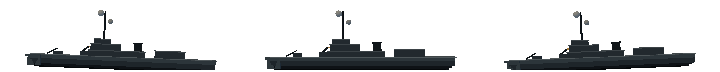
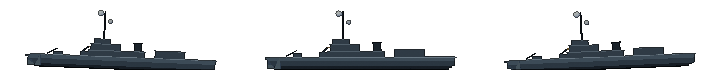
upgrade buques

diff --git a/src/data/cajas_three.js b/src/data/cajas_three.js
@@ -3,7 +3,12 @@
 // tools/bake_enemies_run.js (el horno viejo, que desde la fase 2 escribe esas hojas en
 // assets/world/enemies/three/). El juego las usa con `?horno=three` (data/horno.js).
 export const CAJAS_THREE = {
+  buque_cv: { fw: 240, fh: 72, cols: 3, rows: 1, box: { x0: 23, y0: 8, x1: 216, y1: 69 }, margen: 2 },
+  buque_log: { fw: 240, fh: 72, cols: 3, rows: 1, box: { x0: 24, y0: 8, x1: 215, y1: 69 }, margen: 2 },
+  buque_t21: { fw: 240, fh: 72, cols: 3, rows: 1, box: { x0: 47, y0: 20, x1: 196, y1: 69 }, margen: 2 },
+  buque_t42: { fw: 240, fh: 72, cols: 3, rows: 1, box: { x0: 24, y0: 10, x1: 216, y1: 69 }, margen: 2 },
   chancha: { fw: 160, fh: 112, cols: 3, rows: 1, box: { x0: 6, y0: 23, x1: 153, y1: 88 }, margen: 6, puntos: [[44.7, 71.84], [62.65, 71.84], [97.35, 71.84], [115.3, 71.84], [100.47, 70.85]] },
+  fragata: { fw: 64, fh: 48, cols: 1, rows: 1, box: { x0: 14, y0: 13, x1: 52, y1: 35 }, margen: 11 },
   harrier: { fw: 128, fh: 96, cols: 5, rows: 1, box: { x0: 32, y0: 26, x1: 95, y1: 67 }, margen: 26 },
   harrier_rear: { fw: 128, fh: 96, cols: 5, rows: 1, box: { x0: 28, y0: 28, x1: 99, y1: 75 }, margen: 20 },
   harrier_turn: { fw: 128, fh: 96, cols: 5, rows: 1, box: { x0: 22, y0: 29, x1: 114, y1: 66 }, margen: 13 },
@@ -13,5 +18,14 @@ export const CAJAS_THREE = {
   helo_seaking: { fw: 128, fh: 96, cols: 8, rows: 2, box: { x0: 9, y0: 27, x1: 107, y1: 65 }, margen: 9 },
   helo_sealynx: { fw: 128, fh: 96, cols: 8, rows: 2, box: { x0: 21, y0: 33, x1: 91, y1: 64 }, margen: 21 },
   helo_wessex: { fw: 128, fh: 96, cols: 8, rows: 2, box: { x0: 13, y0: 29, x1: 98, y1: 66 }, margen: 13 },
+  hundido_cv: { fw: 240, fh: 72, cols: 2, rows: 1, box: { x0: 51, y0: 17, x1: 189, y1: 64 }, margen: 7 },
+  hundido_log: { fw: 240, fh: 72, cols: 2, rows: 1, box: { x0: 52, y0: 14, x1: 188, y1: 64 }, margen: 7 },
+  hundido_t21: { fw: 240, fh: 72, cols: 2, rows: 1, box: { x0: 68, y0: 17, x1: 174, y1: 64 }, margen: 7 },
+  hundido_t42: { fw: 240, fh: 72, cols: 2, rows: 1, box: { x0: 52, y0: 17, x1: 189, y1: 64 }, margen: 7 },
   jet: { fw: 128, fh: 96, cols: 5, rows: 1, box: { x0: 29, y0: 26, x1: 98, y1: 63 }, margen: 26 },
+  lcu: { fw: 72, fh: 48, cols: 3, rows: 1, box: { x0: 9, y0: 11, x1: 52, y1: 33 }, margen: 9 },
+  proa_cv: { fw: 56, fh: 72, cols: 3, rows: 1, box: { x0: 7, y0: 5, x1: 51, y1: 68 }, margen: 3 },
+  proa_log: { fw: 56, fh: 72, cols: 3, rows: 1, box: { x0: 13, y0: 7, x1: 42, y1: 68 }, margen: 3 },
+  proa_t21: { fw: 56, fh: 72, cols: 3, rows: 1, box: { x0: 18, y0: 18, x1: 37, y1: 68 }, margen: 3 },
+  proa_t42: { fw: 56, fh: 72, cols: 3, rows: 1, box: { x0: 16, y0: 9, x1: 39, y1: 68 }, margen: 3 },
 };

diff --git a/tools/blender/exportar_run.js b/tools/blender/exportar_run.js
@@ -12,7 +12,7 @@ const fs = require('fs');
 const claves = process.argv.slice(2).filter(a => !a.startsWith('-') && !a.endsWith('.js'));
 const OUT = path.join(__dirname, 'out');
 
-app.whenReady().then(async () => {
+app.whenReady().then(async () => { try {
   const win = new BrowserWindow({ width: 400, height: 300, show: false });
   await win.loadFile(path.join(__dirname, 'exportar.html'));
   fs.mkdirSync(OUT, { recursive: true });
@@ -20,7 +20,7 @@ app.whenReady().then(async () => {
     if (k.includes(':')) {
       const [fam, nombre, ...args] = k.split(':');
       const json = await win.webContents.executeJavaScript(
-        `__exportarModelo(${JSON.stringify(fam)}, ${JSON.stringify(nombre)}, ${JSON.stringify(args.map(Number))})`);
+        `__exportarModelo(${JSON.stringify(fam)}, ${JSON.stringify(nombre)}, ${JSON.stringify(args.map(a => isNaN(+a) ? a : +a))})`);
       fs.mkdirSync(path.join(OUT, 'puente'), { recursive: true });
       fs.writeFileSync(path.join(OUT, 'puente', [nombre, ...args].join('_') + '.json'), json);
       console.log('OK', k, (json.length / 1024).toFixed(0) + ' KB');
@@ -31,4 +31,9 @@ app.whenReady().then(async () => {
     console.log('OK', k, (json.length / 1024).toFixed(0) + ' KB');
   }
   app.exit(0);
+  } catch (e) {
+    // sin esto un modelo que falla (un catalogo sin cargar en exportar.html) deja a Electron colgado
+    console.error('ERROR al exportar:', e.message);
+    app.exit(1);
+  }
 });

diff --git a/tools/blender/exportar.html b/tools/blender/exportar.html
@@ -11,6 +11,7 @@
   <script src="../models/enemies.js"></script>
   <script src="../models/helos.js"></script>
   <script src="../models/harrier.js"></script>
+  <script src="../models/buques.js"></script>
   <script>
     'use strict';
     const MODELS = BAKE.familia('planes');

diff --git a/tools/blender/hojas.py b/tools/blender/hojas.py
@@ -10,6 +10,8 @@
 #
 # FASE 2 (3/10/2026): los aviones enemigos — el helicoptero, los cinco britanicos, la Chancha, el
 # caza del pasillo y las tres hojas del Sea Harrier.
+# FASE 3 (3/10/2026): los buques — las cuatro clases de costado, de proa y hundiendose (buques.js),
+# el casco de la fragata del mastil de mar y la barcaza.
 import math
 
 R = math.pi / 180
@@ -38,4 +40,19 @@ HOJAS = {
     'harrier_turn': dict(fw=128, fh=96, dist=18, lookY=0.2, baseYaw=0, cols=5,
                          frames=[dict(modelo='bl:harrier', yaw=d * R, roll=r * R)
                                  for d, r in zip((0, 40, 90, 140, 180), (0, -25, -35, -25, 0))]),
+    # ---------------- FASE 3: LOS BUQUES ----------------
+    # El teleobjetivo casi ortografico (2,42° a 90 unidades) y `clipY: 0`: nada bajo la flotacion,
+    # asi el borde de abajo del contenido ES la linea de agua (ver bake_enemies.html).
+    **{('buque_' + c): dict(fw=240, fh=72, dist=90, fov=2.42, lookY=1.76, clipY=0, baseYaw=0, quarter=math.pi / 2,
+                            cols=3, nivelado=1, frames=[dict(modelo='puente:' + c, roll=a) for a in (-0.04, 0, 0.04)])
+       for c in ('t42', 't21', 'log', 'cv')},
+    **{('proa_' + c): dict(fw=56, fh=72, dist=90, fov=2.42, lookY=1.64, clipY=0, baseYaw=0, quarter=0,
+                           cols=3, nivelado=1, frames=[dict(modelo='puente:' + c, roll=a) for a in (-0.05, 0, 0.05)])
+       for c in ('t42', 't21', 'log', 'cv')},
+    **{('hundido_' + c): dict(fw=240, fh=72, dist=90, fov=3.15, lookY=2.0, clipY=0, baseYaw=0, quarter=math.pi / 2,
+                              cols=2, frames=[dict(modelo='puente:hundido_%s_%d' % (c, n)) for n in (1, 2)])
+       for c in ('t42', 't21', 'log', 'cv')},
+    'fragata': dict(fw=64, fh=48, dist=16, lookY=1.0, quarter=0.15, cols=1, frames=[dict(modelo='puente:modelFragata')]),
+    'lcu': dict(fw=72, fh=48, dist=17, lookY=0.9, quarter=-0.55, cols=3, nivelado=1,
+                frames=[dict(modelo='puente:modelLcu', roll=a) for a in (-0.09, 0, 0.09)]),
 }

diff --git a/tools/blender/hornear_hoja.py b/tools/blender/hornear_hoja.py
@@ -74,6 +74,25 @@ def translucido(m, op):
     if hasattr(m, 'surface_render_method'): m.surface_render_method = 'BLENDED'
     else: m.blend_method = 'BLEND'
 
+def recortar(clip):
+    """EL PLANO DE RECORTE de bake_common.js (`clipY`): nada por debajo de esa altura del MUNDO de
+    three (la z de Blender) se hornea. Lo piden los buques: el borde de abajo del contenido ES la
+    linea de flotacion, y de ahi se ancla el sprite. Va en cada material: lo de abajo, transparente."""
+    for m in bpy.data.materials:
+        if not m.use_nodes: continue
+        nt = m.node_tree; N = nt.nodes; L = nt.links
+        out = next((n for n in N if n.type == 'OUTPUT_MATERIAL'), None)
+        if not out or not out.inputs['Surface'].links: continue
+        sup = out.inputs['Surface'].links[0].from_socket
+        geo = N.new('ShaderNodeNewGeometry')
+        z = N.new('ShaderNodeSeparateXYZ'); L.new(geo.outputs['Position'], z.inputs[0])
+        arriba = N.new('ShaderNodeMath'); arriba.operation = 'GREATER_THAN'; arriba.inputs[1].default_value = clip
+        L.new(z.outputs['Z'], arriba.inputs[0])
+        tr = N.new('ShaderNodeBsdfTransparent')
+        mx = N.new('ShaderNodeMixShader')
+        L.new(arriba.outputs[0], mx.inputs[0]); L.new(tr.outputs[0], mx.inputs[1]); L.new(sup, mx.inputs[2])
+        L.new(mx.outputs[0], out.inputs['Surface'])
+
 def construir(fuente, T):
     tipo, nombre = fuente.split(':', 1)
     if tipo == 'puente':
@@ -127,6 +146,7 @@ if __name__ == '__main__':
     fuentes = {}
     for fr in S['frames']:
         if fr['modelo'] not in fuentes: fuentes[fr['modelo']] = construir(fr['modelo'], T)
+    if 'clipY' in S: recortar(S['clipY'])
     def mostrar(raiz):
         for r in fuentes.values():
             for o in [r] + list(r.children_recursive): o.hide_render = o.hide_viewport = r is not raiz

diff --git a/tools/blender/hornear_hojas.py b/tools/blender/hornear_hojas.py
@@ -19,7 +19,9 @@ BLENDER = '/Applications/Blender.app/Contents/MacOS/Blender'
 # que catalogo de tools/models/ tiene cada modelo del puente
 FAMILIA = {'modelHelo': 'enemies', 'modelHercules': 'enemies', 'modelJet': 'enemies',
            'seaKing': 'helos', 'wessex': 'helos', 'seaLynx': 'helos', 'gazelle': 'helos', 'scout': 'helos',
-           'harrier': 'harrier', 'harrierRear': 'harrier'}
+           'harrier': 'harrier', 'harrierRear': 'harrier',
+           't42': 'buques', 't21': 'buques', 'log': 'buques', 'cv': 'buques', 'hundido': 'buques',
+           'modelFragata': 'enemies', 'modelLcu': 'enemies'}
 
 def puente(hojas):
     pedidos = set()
